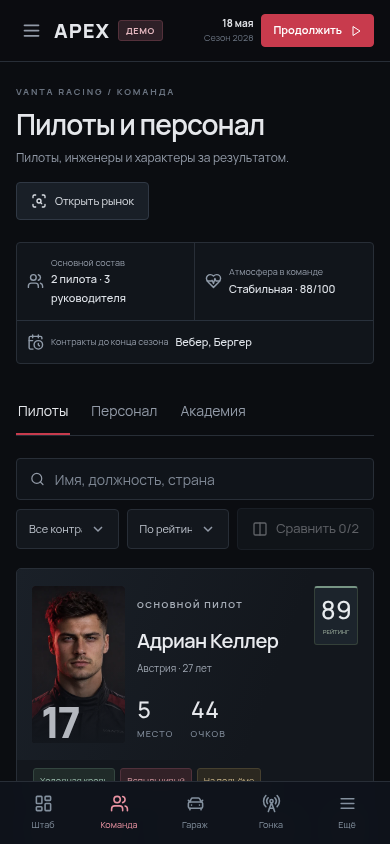
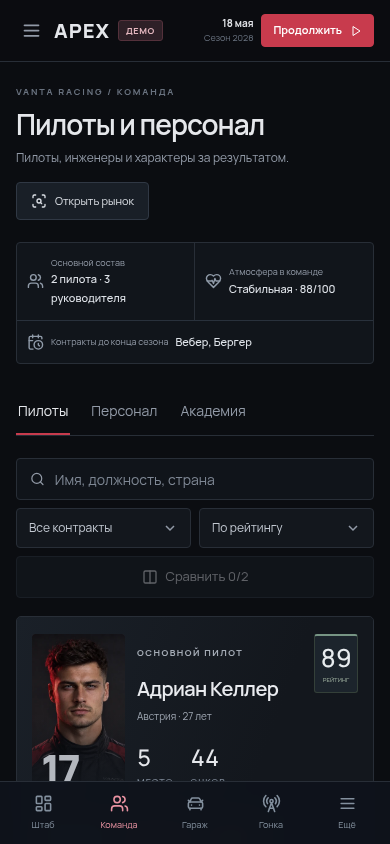
fix: сохранить читаемость фильтров и карточек рынка на телефоне

diff --git a/frontend/src/screens/People.tsx b/frontend/src/screens/People.tsx
@@ -5,9 +5,9 @@ import { Header, Button, Panel, Table, Confirm, Facts, Choices, Progress } from 
 import { eur, type Person } from '../game'
 import { seriesNames } from '../ui/labels'
 
-function Portrait({ person: p }: { person: Person }) {
+function Portrait({ person: p, large = false }: { person: Person; large?: boolean }) {
   return (
-    <div className="people-avatar people-avatar-large">
+    <div className={large ? 'people-avatar people-avatar-large' : 'people-avatar'}>
       <span className="people-initials">
         {p.name
           .split(' ')
@@ -252,7 +252,7 @@ function PersonCard({ p, select, profile }: { p: Person; select: ReactNode; prof
     <article className="people-person-card panel">
       <div className="people-person-top">
         <div className="people-person-photo">
-          <Portrait person={p} />
+          <Portrait person={p} large />
           {p.number && <span className="people-car-number">{p.number}</span>}
         </div>
         <div className="people-person-info">

diff --git a/frontend/src/app.css b/frontend/src/app.css
@@ -580,3 +580,18 @@ button.result:hover {
 .compact .market-candidate {
   padding-block: 12px;
 }
+
+@media (max-width: 600px) {
+  .people-toolbar {
+    display: grid;
+    grid-template-columns: repeat(2, minmax(0, 1fr));
+  }
+  .people-toolbar .people-search,
+  .people-toolbar .btn {
+    grid-column: 1 / -1;
+  }
+  .people-toolbar select {
+    width: 100%;
+    font-size: 12px;
+  }
+}
